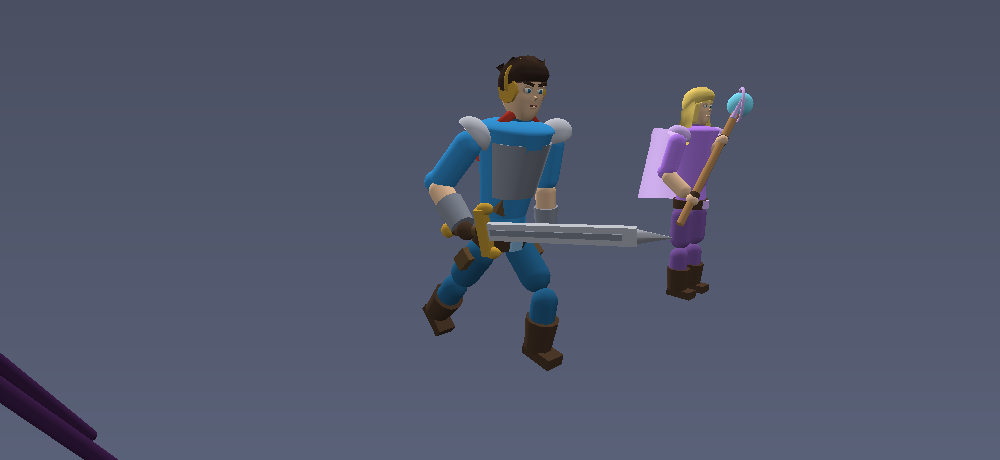
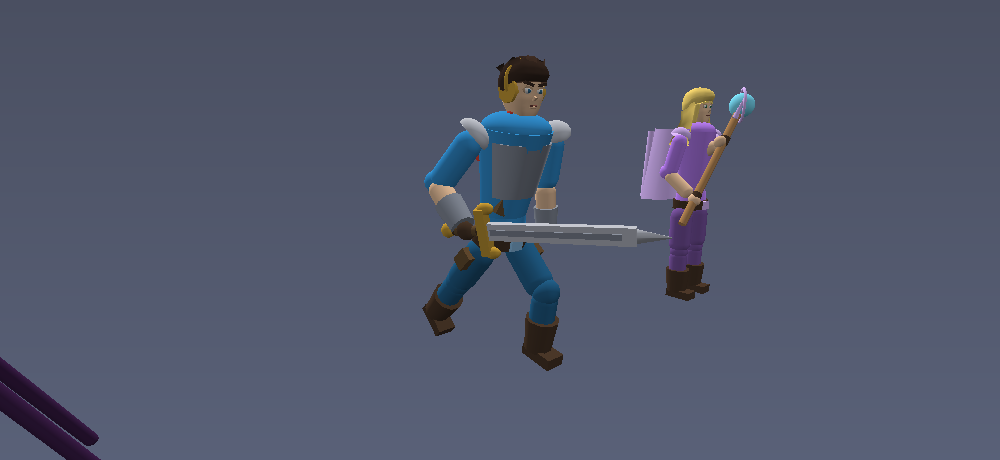
Женский силуэт Елены, колени, моргание, каст свободной рукой
- Рюдо и Елена были геометрически ОДИНАКОВЫ: отличались только цветом и
  оружием. Добавлен параметр build: у женского силуэта уже плечи (0.70
  против 0.78), шире таз (0.60 против 0.56) и тоньше конечности.
- Колено: бедро и голень сходились встык (перекрытие 0.01) — сустав
  читался разрезом в ноль пикселей. Кости удлинены до перекрытия 0.07,
  добавлен шарнир kneeCap.
- Каст Рюдо вёлся рукой С МЕЧОМ (2.50 рад против 1.87 у свободной).
  Теперь колдует свободная рука, а меч остаётся у бедра.
- Глаза не анимировались вовсе: веки были в мешах, но не в риге. Добавлено
  моргание с индивидуальным интервалом, иначе партия моргает как куклы.
- Наплечники были шире плеча (0.37 против 0.33) — уменьшены и вытянуты
  вдоль руки.
- Наконечник ножен задавался отдельной позицией на торсе и разошёлся с
  коробом на 0.05. Сделан дочерним элементом короба.
- Плащ Елены был сплющен до 0.12 по глубине — плоский лист за спиной.
  Возвращён объём, складки прижаты к телу плаща.
- Ключицу отдельной деталью НЕ моделируем: по гайдам low-poly её роль
  играет наклон плеча, а лишняя деталь читалась полкой на груди. Скат
  сделан покатее и уже груди.
- Добавлен вид elenaside2 и превью Елены сбоку.

Каст в цель пересчитан: сузившиеся плечи сломали хват посоха.

diff --git a/src/render/models.js b/src/render/models.js
@@ -49,8 +49,28 @@ function shadeMat(scene, name, color, weapon) {
     return makeMaterial(scene, name, shade(color, weapon === 'staff' ? 1.3 : 0.52));
 }
 
-export function createHumanoid(scene, { id, color = '#3498db', weapon = 'sword', accent = null } = {}) {
+export function createHumanoid(scene, {
+    id, color = '#3498db', weapon = 'sword', accent = null, build = 'male',
+} = {}) {
     const meshes = [];
+
+    // Телосложение. Раньше Рюдо и Елена были геометрически одинаковы —
+    // отличались только цветом и оружием. Женский силуэт задаётся узкими
+    // плечами, широким тазом и более тонкими конечностями.
+    const female = build === 'female';
+    const B = {
+        shoulderX: female ? 0.44 : 0.5,      // разнос плеч
+        chestTop: female ? 0.70 : 0.78,      // ширина груди сверху
+        chestBottom: female ? 0.46 : 0.5,
+        waistTop: female ? 0.46 : 0.5,
+        waistBottom: female ? 0.60 : 0.56,   // таз: у женщины шире талии
+        hipX: female ? 0.23 : 0.21,          // разнос тазобедренных суставов
+        thighR: female ? 0.155 : 0.15,
+        shinR: female ? 0.125 : 0.13,
+        armR: female ? 0.105 : 0.12,
+        foreR: female ? 0.092 : 0.105,
+        pauldron: female ? 0.26 : 0.3,
+    };
     const track = (mesh) => { meshes.push(mesh); return mesh; };
 
     const cloth = makeMaterial(scene, `${id}_cloth`, color);
@@ -76,12 +96,12 @@ export function createHumanoid(scene, { id, color = '#3498db', weapon = 'sword',
     // Плечевые суставы держим у верхнего среза корпуса (он на 1.07): раньше
     // они сидели на 0.8, и руки росли из середины груди — плечи оказывались
     // заметно ниже линии ключиц.
-    const shoulderL = joint(scene, `${id}_shoulderL`, torso, new Vector3(-0.5, 0.98, 0));
-    const shoulderR = joint(scene, `${id}_shoulderR`, torso, new Vector3(0.5, 0.98, 0));
+    const shoulderL = joint(scene, `${id}_shoulderL`, torso, new Vector3(-B.shoulderX, 0.98, 0));
+    const shoulderR = joint(scene, `${id}_shoulderR`, torso, new Vector3(B.shoulderX, 0.98, 0));
     const elbowL = joint(scene, `${id}_elbowL`, shoulderL, new Vector3(0, -0.52, 0));
     const elbowR = joint(scene, `${id}_elbowR`, shoulderR, new Vector3(0, -0.52, 0));
-    const hipL = joint(scene, `${id}_hipL`, hips, new Vector3(-0.21, -0.08, 0));
-    const hipR = joint(scene, `${id}_hipR`, hips, new Vector3(0.21, -0.08, 0));
+    const hipL = joint(scene, `${id}_hipL`, hips, new Vector3(-B.hipX, -0.08, 0));
+    const hipR = joint(scene, `${id}_hipR`, hips, new Vector3(B.hipX, -0.08, 0));
     const kneeL = joint(scene, `${id}_kneeL`, hipL, new Vector3(0, -0.62, 0));
     const kneeR = joint(scene, `${id}_kneeR`, hipR, new Vector3(0, -0.62, 0));
 
@@ -89,18 +109,21 @@ export function createHumanoid(scene, { id, color = '#3498db', weapon = 'sword',
     // Имя *_body важно: UIController подсвечивает его при попадании.
     // Конус даёт треугольный силуэт: широкие плечи, узкая талия.
     const chest = track(MeshBuilder.CreateCylinder(`${id}_body`, {
-        height: 0.82, diameterTop: 0.78, diameterBottom: 0.5, tessellation: 14,
+        height: 0.82, diameterTop: B.chestTop, diameterBottom: B.chestBottom, tessellation: 14,
     }, scene));
     chest.parent = torso;
     chest.position.y = 0.66;
     chest.scaling.z = 0.72; // тело не бочка, а слегка приплюснутое
     chest.material = cloth;
 
-    // Плечевой пояс. Без него верх корпуса-конуса оставался открытым диском:
-    // у шеи торчала плоская «крышка», и ключицы выглядели как срезанная труба.
-    // Полусфера закрывает срез и даёт покатый скат от шеи к плечам.
+    // Плечевой пояс закрывает открытый верх корпуса-конуса: без него у шеи
+    // торчала плоская «крышка», и ключицы выглядели срезанной трубой.
+    //
+    // Отдельную ключицу НЕ моделируем: в low-poly её роль играет наклон
+    // плеча, а лишняя деталь читается как полка на груди. Поэтому здесь
+    // просто покатый купол, чуть уже груди, — он сливается с корпусом.
     const yoke = track(MeshBuilder.CreateSphere(`${id}_yoke`, {
-        diameterX: 0.80, diameterY: 0.16, diameterZ: 0.58,
+        diameterX: B.chestTop * 0.94, diameterY: 0.3, diameterZ: B.chestTop * 0.68,
         slice: 0.5, segments: 14,
     }, scene));
     yoke.parent = torso;
@@ -109,8 +132,12 @@ export function createHumanoid(scene, { id, color = '#3498db', weapon = 'sword',
 
     // Наплечники разбивают силуэт и делают героя «экипированным».
     for (const side of [-1, 1]) {
+        // Наплечник ненамного шире руки: при 0.34 против плеча 0.33 он
+        // выглядел приклеенным блином. Форма вытянута вдоль руки, а не
+        // круглая — так читается наплечник, а не шар.
         const pad = track(MeshBuilder.CreateSphere(`${id}_pauldron${side}`, {
-            diameterX: 0.34, diameterY: 0.26, diameterZ: 0.32, slice: 0.55,
+            diameterX: B.pauldron, diameterY: 0.22, diameterZ: B.pauldron * 1.05,
+            slice: 0.55,
         }, scene));
         // Наплечник крепим к САМОМУ плечевому суставу: он должен ехать
         // вместе с рукой. На торсе он оставался на месте, и после разворота
@@ -121,8 +148,9 @@ export function createHumanoid(scene, { id, color = '#3498db', weapon = 'sword',
         pad.material = weapon === 'staff' ? trim : steel;
     }
 
+    // Таз: у женского силуэта он ШИРЕ талии — это и даёт разницу фигур.
     const waist = track(MeshBuilder.CreateCylinder(`${id}_waist`, {
-        height: 0.3, diameterTop: 0.5, diameterBottom: 0.56, tessellation: 14,
+        height: 0.3, diameterTop: B.waistTop, diameterBottom: B.waistBottom, tessellation: 14,
     }, scene));
     waist.parent = torso;
     waist.position.y = 0.14;
@@ -176,12 +204,14 @@ export function createHumanoid(scene, { id, color = '#3498db', weapon = 'sword',
         scabbard.rotation.set(0.5, 0, -0.34);
         scabbard.material = leather;
 
+        // Наконечник — ДОЧЕРНИЙ элемент короба, а не отдельная деталь на
+        // торсе: раньше их позиции задавались независимо, и после переноса
+        // ножен наконечник отошёл от короба на 0.05.
         const scabbardTip = track(MeshBuilder.CreateCylinder(`${id}_scabbardTip`, {
             height: 0.14, diameterTop: 0.13, diameterBottom: 0.06, tessellation: 8,
         }, scene));
-        scabbardTip.parent = torso;
-        scabbardTip.position.set(-0.59, -0.45, -0.52);
-        scabbardTip.rotation.set(0.5, 0, -0.34);
+        scabbardTip.parent = scabbard;
+        scabbardTip.position.y = -0.48;   // -0.43 (низ короба) - 0.07 (полувысота), с нахлёстом
         scabbardTip.material = gold;
 
         // Красный шарф — самая узнаваемая деталь силуэта Рюдо.
@@ -285,13 +315,17 @@ export function createHumanoid(scene, { id, color = '#3498db', weapon = 'sword',
     cape.position.set(0, 0.58, -0.34);
 
     if (weapon === 'staff') {
+    // Плащ огибает спину. Прежний был сплющен до 0.12 по глубине —
+    // с любого ракурса, кроме строго фронтального, он читался как плоский
+    // лист, висящий отдельно от фигуры.
     const cloak = track(MeshBuilder.CreateCylinder(`${id}_cape`, {
-        height: 1.05, diameterTop: 0.62, diameterBottom: 0.98,
-        tessellation: 4, faceted: true,
+        height: 1.05, diameterTop: 0.58, diameterBottom: 0.92,
+        tessellation: 8, faceted: true,
     }, scene));
     cloak.parent = cape;
-    cloak.rotation.set(-0.06, Math.PI / 4, 0);
-    cloak.scaling.z = 0.12;
+    cloak.rotation.set(-0.06, Math.PI / 8, 0);
+    cloak.scaling.z = 0.42;
+    cloak.position.z = -0.06;
     cloak.material = trim;
 
     // Складки: две вертикальные грани ломают плоскость плаща.
@@ -301,8 +335,10 @@ export function createHumanoid(scene, { id, color = '#3498db', weapon = 'sword',
             tessellation: 4, faceted: true,
         }, scene));
         fold.parent = cloak;
-        // Родитель уже сплющен по z, поэтому компенсируем масштаб.
-        fold.position.set(0.26 * side, 0.0, -0.6);
+        // Складки прижаты к телу плаща. Смещение -0.6 по z считалось от
+        // сплющенного родителя (0.12); после того как плащу вернули объём
+        // (0.42), они уехали наружу и торчали отдельными плитами.
+        fold.position.set(0.3 * side, 0.0, -0.12);
         fold.rotation.y = Math.PI / 4;
         fold.scaling.set(1, 0.98, 1);
         fold.material = trim;
@@ -479,6 +515,8 @@ export function createHumanoid(scene, { id, color = '#3498db', weapon = 'sword',
     const irisMat = makeMaterial(scene, `${id}_irisMat`, weapon === 'staff' ? '#2f6f4f' : '#2e6b8f');
     const pupilMat = makeMaterial(scene, `${id}_pupilMat`, '#15171c');
     const lidMat = makeMaterial(scene, `${id}_lidMat`, shade('#f2c9a0', 0.82));
+    // Веки складываем отдельно: аниматор моргает ими, растягивая по Y.
+    const eyelids = [];
 
     for (const side of [-1, 1]) {
         const tag = side > 0 ? 'R' : 'L';
@@ -520,6 +558,7 @@ export function createHumanoid(scene, { id, color = '#3498db', weapon = 'sword',
         lid.position.set(0.082 * side, 0.377, 0.146);
         lid.rotation.z = side * (weapon === 'staff' ? -0.06 : 0.16);
         lid.material = lidMat;
+        eyelids.push({ mesh: lid, restY: lid.position.y });
     }
 
     // --- Руки и ноги ------------------------------------------------------
@@ -536,10 +575,10 @@ export function createHumanoid(scene, { id, color = '#3498db', weapon = 'sword',
     // Плечо чуть длиннее расстояния до локтя (0.52), чтобы капсулы
     // ПЕРЕКРЫВАЛИСЬ: иначе на сгибе видна ступенька между рукавом и
     // предплечьем — сустав ничем не закрыт.
-    limb(`${id}_upperArmL`, shoulderL, 0.6, 0.12, cloth);
-    limb(`${id}_upperArmR`, shoulderR, 0.6, 0.12, cloth);
-    const foreArmL = limb(`${id}_foreArmL`, elbowL, 0.5, 0.105, skin);
-    const foreArmR = limb(`${id}_foreArmR`, elbowR, 0.5, 0.105, skin);
+    limb(`${id}_upperArmL`, shoulderL, 0.6, B.armR, cloth);
+    limb(`${id}_upperArmR`, shoulderR, 0.6, B.armR, cloth);
+    const foreArmL = limb(`${id}_foreArmL`, elbowL, 0.5, B.foreR, skin);
+    const foreArmR = limb(`${id}_foreArmR`, elbowR, 0.5, B.foreR, skin);
 
     // Шарнир локтя скрывает стык двух капсул при любом угле сгиба. Сфера
     // сдвинута ВВЕРХ от сустава и уменьшена: по центру она свисала на
@@ -550,10 +589,21 @@ export function createHumanoid(scene, { id, color = '#3498db', weapon = 'sword',
         cap.position.y = 0.05;
         cap.material = cloth;
     }
-    limb(`${id}_thighL`, hipL, 0.64, 0.15, clothDark);
-    limb(`${id}_thighR`, hipR, 0.64, 0.15, clothDark);
-    limb(`${id}_shinL`, kneeL, 0.62, 0.13, clothDark);
-    limb(`${id}_shinR`, kneeR, 0.62, 0.13, clothDark);
+    limb(`${id}_thighL`, hipL, 0.7, B.thighR, clothDark);
+    limb(`${id}_thighR`, hipR, 0.7, B.thighR, clothDark);
+    limb(`${id}_shinL`, kneeL, 0.66, B.shinR, clothDark);
+    limb(`${id}_shinR`, kneeR, 0.66, B.shinR, clothDark);
+
+    // Коленный шарнир. Бедро и голень сходились встык (перекрытие 0.01) —
+    // на сгибе сустав выглядел разрезом шириной в ноль пикселей.
+    for (const [name, parent] of [[`${id}_kneeCapL`, kneeL], [`${id}_kneeCapR`, kneeR]]) {
+        const cap = track(MeshBuilder.CreateSphere(name, {
+            diameter: B.shinR * 2.1, segments: 8,
+        }, scene));
+        cap.parent = parent;
+        cap.position.y = 0.03;
+        cap.material = clothDark;
+    }
 
     for (const [name, parent] of [[`${id}_footL`, kneeL], [`${id}_footR`, kneeR]]) {
         const foot = track(MeshBuilder.CreateBox(name, { width: 0.21, height: 0.11, depth: 0.36 }, scene));
@@ -766,7 +816,7 @@ export function createHumanoid(scene, { id, color = '#3498db', weapon = 'sword',
             hips, torso, neck, head,
             shoulderL, shoulderR, elbowL, elbowR,
             hipL, hipR, kneeL, kneeR,
-            hand, handL, weaponPivot, cape,
+            hand, handL, weaponPivot, cape, eyelids,
             foreArmL, foreArmR,
             // Поза покоя: аниматор возвращается к ней, а не к константам.
             rest: {
@@ -928,5 +978,6 @@ export function createUnitModel(scene, data) {
         color: data.color,
         weapon: data.weapon ?? (data.presetKey === 'elena' ? 'staff' : 'sword'),
         accent: data.accent ?? null,
+        build: data.build ?? (data.presetKey === 'elena' ? 'female' : 'male'),
     });
 }

diff --git a/src/render/Animator.js b/src/render/Animator.js
@@ -45,8 +45,8 @@ const SWING_SECONDS = 0.42;
  */
 const STAFF_POSES = {
     castTarget: {
-        shoulderRX: 0.60, shoulderRZ: -0.30, elbowR: 0.30, wrist: 0.10,
-        shoulderLX: 0.50, shoulderLZ: 0.00, elbowL: 0.07,
+        shoulderRX: 0.70, shoulderRZ: -0.30, elbowR: 0.00, wrist: 0.23,
+        shoulderLX: 0.90, shoulderLZ: 0.00, elbowL: 0.33,
     },
     castSelf: {
         shoulderRX: 0.60, shoulderRZ: -1.10, elbowR: -1.00, wrist: 0.30,
@@ -61,6 +61,11 @@ const STAFF_POSES = {
 // Длина шага, ЗАМЕРЕННАЯ по размаху стопы в мире. По ней частота шага
 // привязывается к скорости, чтобы стопа стояла на земле, а не скользила.
 // Держать в паре с LEG_SWING: они задают шаг совместно.
+// Моргание: длительность и насколько веко закрывает глаз.
+const BLINK_SECONDS = 0.13;
+const BLINK_STRETCH = 5.5;
+const BLINK_DROP = 0.035;
+
 const STEP_LENGTH = 1.8;
 
 // Размах бедра и подъём колена на бегу. Подобраны замером: шаг 1.74 при
@@ -148,6 +153,9 @@ export class Animator {
         this.states.set(unitId, {
             model,
             time: Math.random() * TWO_PI, // рассинхрон, чтобы юниты не дышали в такт
+            // Моргание: пауза до следующего моргания и его фаза.
+            blinkIn: 1.5 + Math.random() * 3,
+            blink: 0,
             swing: 0,      // 1 -> 0 прогресс взмаха оружием
             swingSpan: SWING_SECONDS,
             hitFlash: 0,   // затухающее вздрагивание от урона
@@ -229,11 +237,41 @@ export class Animator {
                 ? Math.min(1, state.death + dt / 0.55)
                 : Math.max(0, state.death - dt / 0.3);
 
+            this.animateBlink(state, dt);
+
             if (state.model.rig.kind === 'spider') {
                 this.animateSpider(state, unit, dt);
             } else {
                 this.animateHumanoid(state, unit, dt);
             }
+        }
+    }
+
+    /**
+     * Моргание. Веки — плоские коробочки над глазом; чтобы «закрыть» глаз,
+     * веко опускается на зрачок и растягивается по высоте. Интервал у
+     * каждого юнита свой, иначе партия моргает синхронно, как куклы.
+     */
+    animateBlink(state, dt) {
+        const lids = state.model.rig.eyelids;
+        if (!lids || lids.length === 0) return;
+
+        if (state.blink > 0) {
+            state.blink = Math.max(0, state.blink - dt / BLINK_SECONDS);
+        } else {
+            state.blinkIn -= dt;
+            if (state.blinkIn <= 0) {
+                state.blink = 1;
+                state.blinkIn = 2.5 + Math.random() * 4;
+            }
+        }
+
+        // Треугольный профиль: веко быстро опускается и так же поднимается.
+        const closed = state.blink > 0 ? 1 - Math.abs(state.blink * 2 - 1) : 0;
+
+        for (const lid of lids) {
+            lid.mesh.scaling.y = 1 + closed * BLINK_STRETCH;
+            lid.mesh.position.y = lid.restY - closed * BLINK_DROP;
         }
     }
 
@@ -389,7 +427,8 @@ export class Animator {
             // Левая рука: маятник на бегу, поднимается при касте.
             rig.shoulderL.rotation.x = damp(
                 rig.shoulderL.rotation.x,
-                -legSwing * 0.75 - castP * 1.9 + castPush * 1.1
+                // Каст ведёт именно эта рука — она свободна от оружия.
+                -legSwing * 0.75 - castP * 2.6 + castPush * 1.5
                 + (attacking ? (windup * 0.5 - strike * 0.7) * (1 - recover) : 0),
                 attacking ? 20 : 16, dt,
             );
@@ -408,11 +447,14 @@ export class Animator {
         const carry = carrying ? runBlend : 0;
 
         // Правая рука с оружием: занос за плечо, затем рубящий удар вниз.
+        // Одноручное оружие: колдует СВОБОДНАЯ (левая) рука, а правая держит
+        // меч у бедра. Раньше правая вскидывалась на castP * 2.6 — герой
+        // проводил каст рукой с мечом, будто размахивая клинком.
         const armTarget = twoHanded
             ? rest.shoulderRX + staffAdd('shoulderRX')
             : (attacking
                 ? rest.shoulderRX + (-windup * 2.6 + strike * 2.2) * (1 - recover)
-                : rest.shoulderRX - legSwing * -0.4 - castP * 2.6 + castPush * 1.4);
+                : rest.shoulderRX - legSwing * -0.4 - castP * 0.35);
 
         // На ударе руку ведём жёстче, чем на возврате: резкость важнее плавности.
         rig.shoulderR.rotation.x = clamp(damp(
